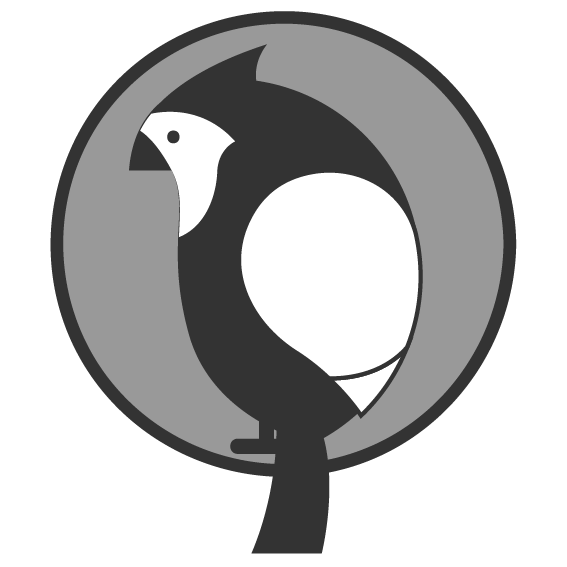
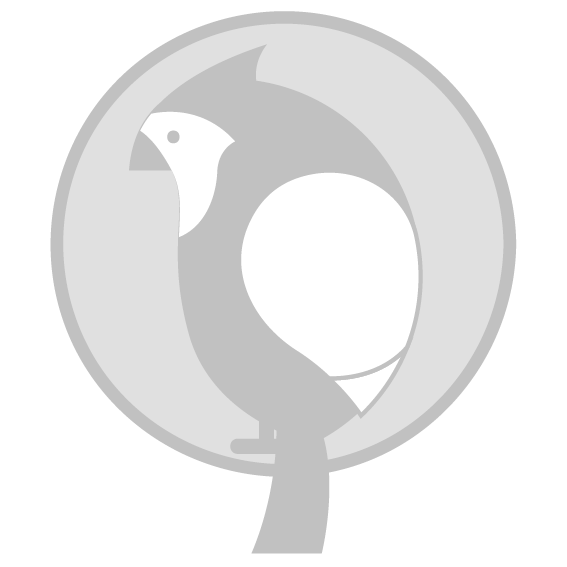
Minor changes
Change alpha channel on png for badges.
Update composer.lock

diff --git a/src/NAOBundle/Controller/DefaultController.php b/src/NAOBundle/Controller/DefaultController.php
@@ -4,9 +4,11 @@ namespace NAOBundle\Controller;
 
 use NAOBundle\Entity\Bird;
 use NAOBundle\Entity\Observation;
+use NAOBundle\Form\BirdType;
 use NAOBundle\Form\ObservationType;
 use Symfony\Bundle\FrameworkBundle\Controller\Controller;
 use Symfony\Component\HttpFoundation\Request;
+use Sensio\Bundle\FrameworkExtraBundle\Configuration\Security;
 
 class DefaultController extends Controller
 {
@@ -36,6 +38,11 @@ class DefaultController extends Controller
         return $this->render('NAOBundle:observation:observation.html.twig');
     }
 
+    /**
+     * @param Request $request
+     * @return \Symfony\Component\HttpFoundation\RedirectResponse|\Symfony\Component\HttpFoundation\Response
+     * @Security("has_role('ROLE_MEMBRE')")
+     */
     public function participateAction(Request $request)
     {
         $testObs = $this->getDoctrine()->getManager()->getRepository('NAOBundle:MainStatus');
